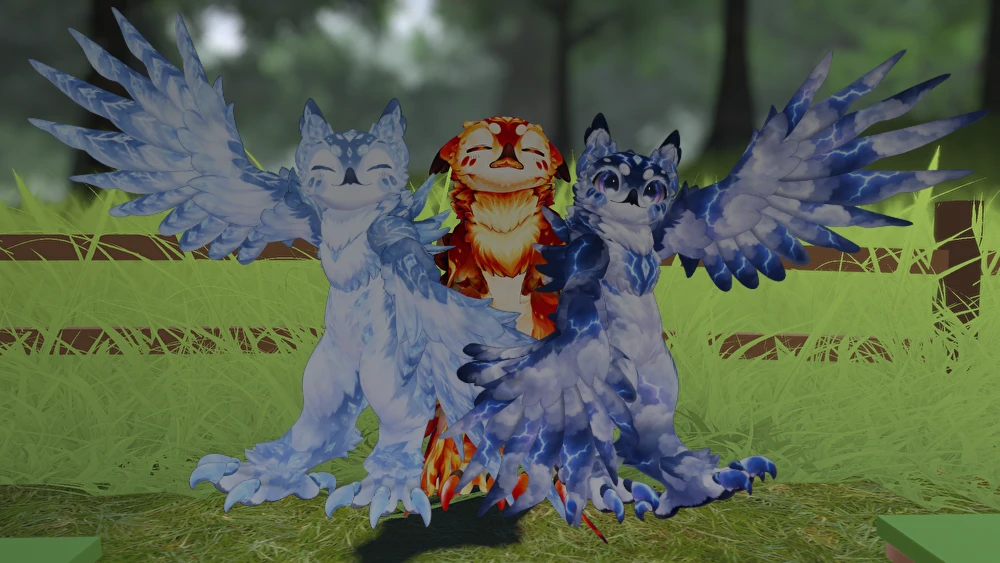
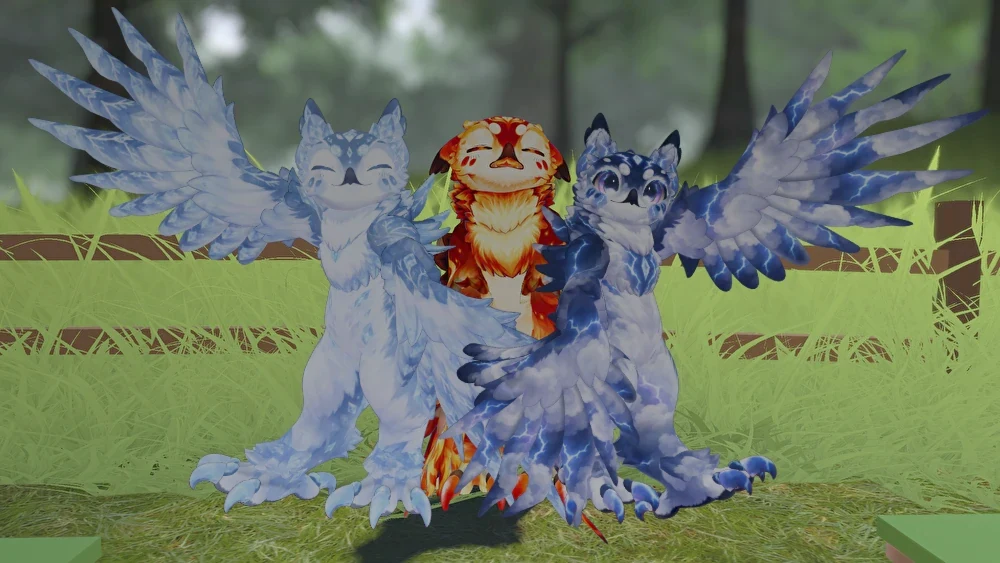
chore: brighten シア's cast photo

diff --git a/cast-data.js b/cast-data.js
@@ -151,7 +151,7 @@ const CAST_DATA = [
   {
     name: 'シア',
     vrchatName: '四肢黒助',
-    image: 'images/shia.webp',
+    image: 'images/shia.webp?v=20261109b', // 同名で差し替えたので ?v= でブラウザキャッシュを回避
     description: '三つの属性を持つ<br>小さなトリちゃん<br>属性は気まぐれに変わるよ',
     worldGenres: [
       'ゲームワールド',

diff --git a/index.html b/index.html
@@ -395,7 +395,7 @@
     </div>
   </footer>
 
-  <script src="cast-data.js?v=20261109a"></script>
+  <script src="cast-data.js?v=20261109b"></script>
   <script src="hero-photos.js?v=20261103d"></script>
   <script src="common.js?v=20261103d"></script>
   <script src="renewal.js?v=20261103d"></script>
